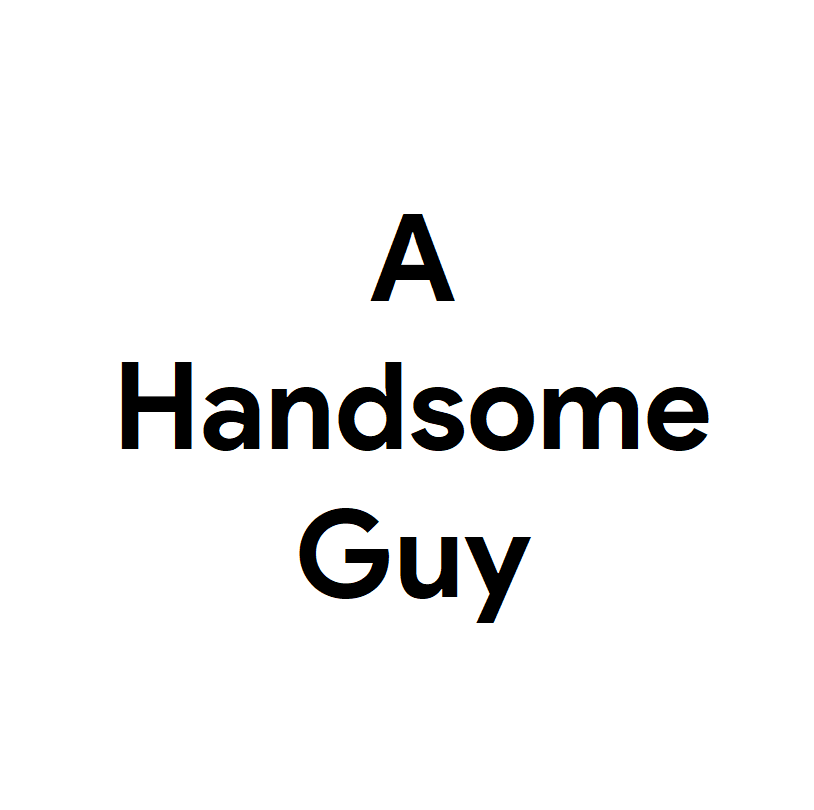
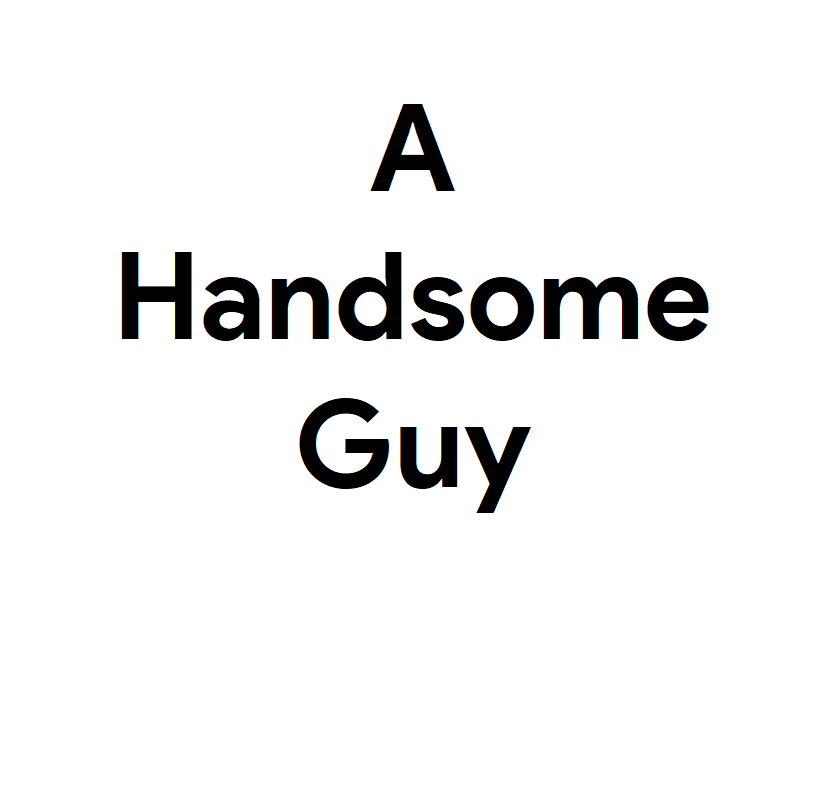
resolve little bug

Changed region(s): [[0.1229, 0.2469, 0.8907, 0.7716], [0.4607, 0.1235, 0.5528, 0.2469]]

diff --git a/homepage/index.html b/homepage/index.html
@@ -14,7 +14,6 @@
     <script src="../assets/fonts/font-awesome/all.js"></script>
     <script src="../assets/script.js"></script>
     <link rel="stylesheet" href="../assets/css/card.css">
-    <!-- <script src="script.js"></script> -->
 </head>
 <body>
     <header>

diff --git a/assets/css/style.css b/assets/css/style.css
@@ -263,7 +263,7 @@ header #sub-menu-container a {
 }
 
 #home .home-sec .home-sec-text {
-    width: 45%;
+    width: 46%;
 }
 
 #home .home-sec h2 {
